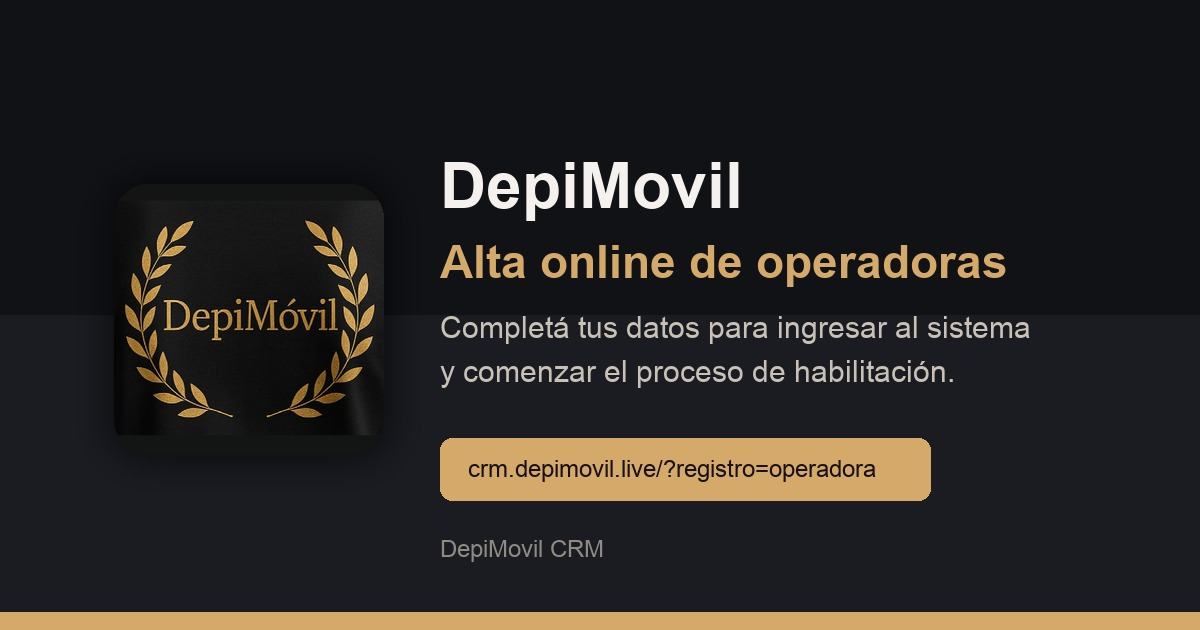
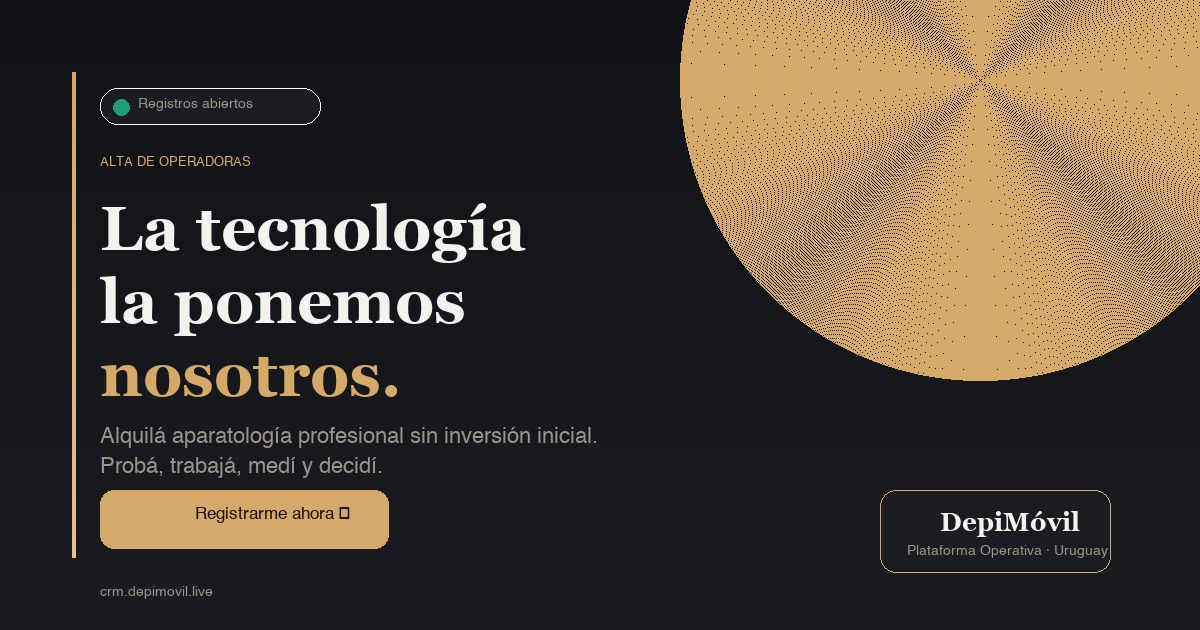
feat: imagen OG 1200x630 para preview WhatsApp de alta-operadoras

diff --git a/alta-operadoras.html b/alta-operadoras.html
@@ -10,16 +10,16 @@
 <meta property="og:title" content="Registrate como operadora DepiMóvil"/>
 <meta property="og:description" content="Alquilá aparatología profesional sin inversión inicial. Probá, trabajá, medí tus resultados y decidí."/>
 <meta property="og:url" content="https://crm.depimovil.live/alta-operadoras.html"/>
-<meta property="og:image" content="https://crm.depimovil.live/assets/img/depimovil-alta-operadoras-share.jpg?v=20260518b"/>
-<meta property="og:image:secure_url" content="https://crm.depimovil.live/assets/img/depimovil-alta-operadoras-share.jpg?v=20260518b"/>
+<meta property="og:image" content="https://crm.depimovil.live/assets/img/depimovil-alta-operadoras-share.jpg?v=20261112"/>
+<meta property="og:image:secure_url" content="https://crm.depimovil.live/assets/img/depimovil-alta-operadoras-share.jpg?v=20261112"/>
 <meta property="og:image:type" content="image/jpeg"/>
 <meta property="og:image:width" content="1200"/>
 <meta property="og:image:height" content="630"/>
-<meta property="og:image:alt" content="DepiMóvil - Alta de operadoras"/>
+<meta property="og:image:alt" content="DepiMóvil - Registrate como operadora · Alta de operadoras"/>
 <meta name="twitter:card" content="summary_large_image"/>
 <meta name="twitter:title" content="Registrate como operadora DepiMóvil"/>
 <meta name="twitter:description" content="Alquilá aparatología profesional sin inversión inicial. Probá, trabajá, medí tus resultados y decidí."/>
-<meta name="twitter:image" content="https://crm.depimovil.live/assets/img/depimovil-alta-operadoras-share.jpg?v=20260518b"/>
+<meta name="twitter:image" content="https://crm.depimovil.live/assets/img/depimovil-alta-operadoras-share.jpg?v=20261112"/>
 <link rel="icon" type="image/png" sizes="32x32" href="/assets/img/favicon-32.png?v=20260922"/>
 <link rel="apple-touch-icon" href="/assets/img/apple-touch-icon.png?v=20260922"/>
 <link rel="preconnect" href="https://fonts.googleapis.com"/>
